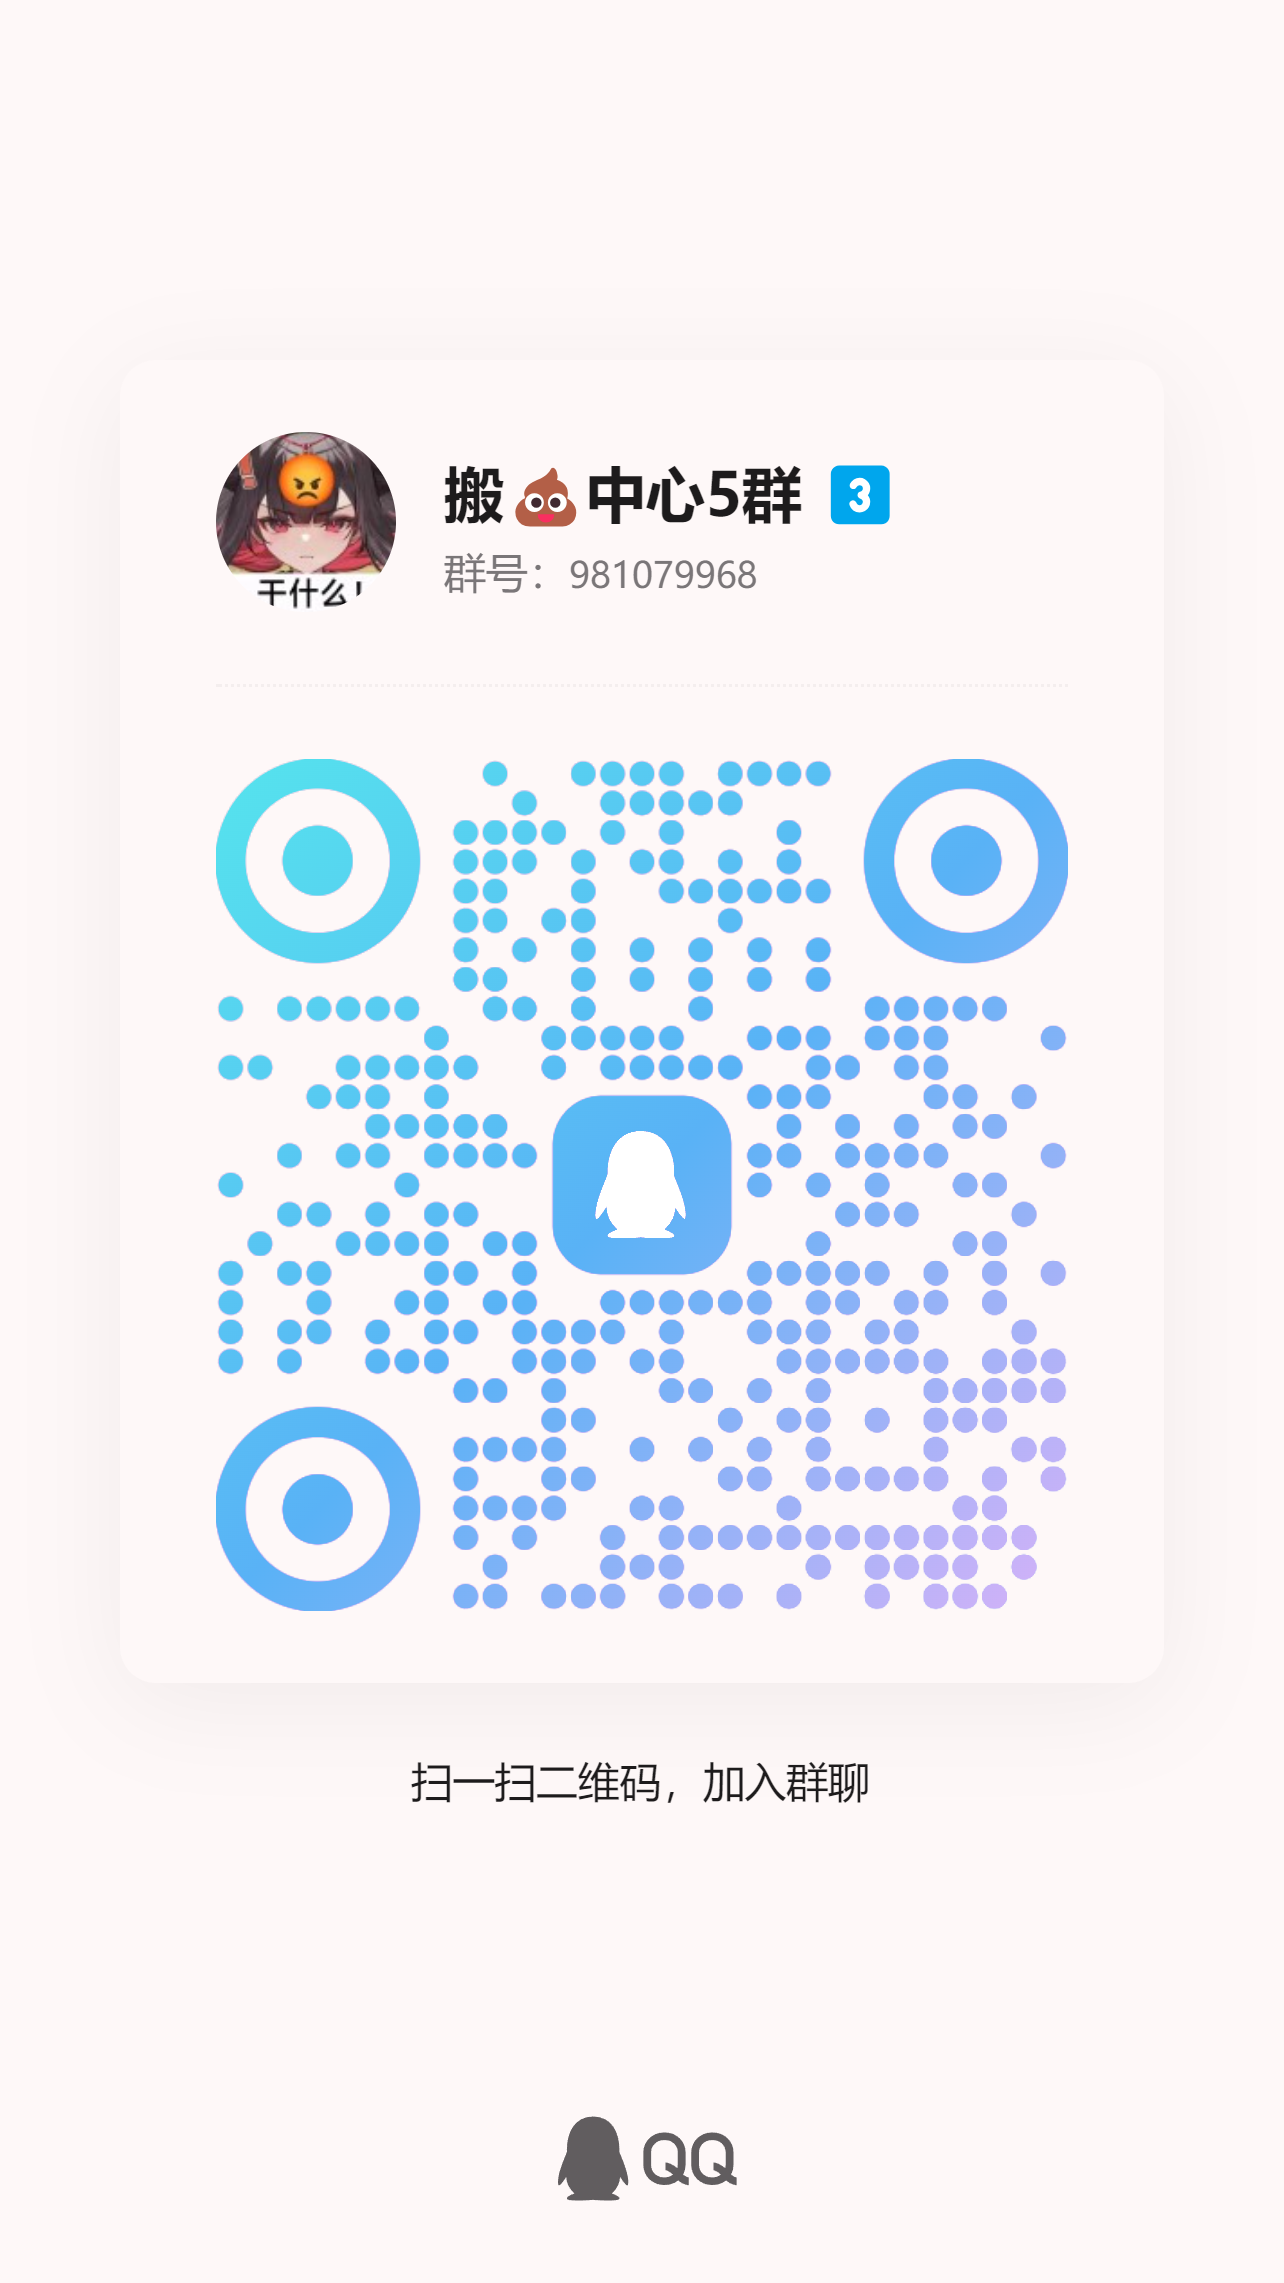
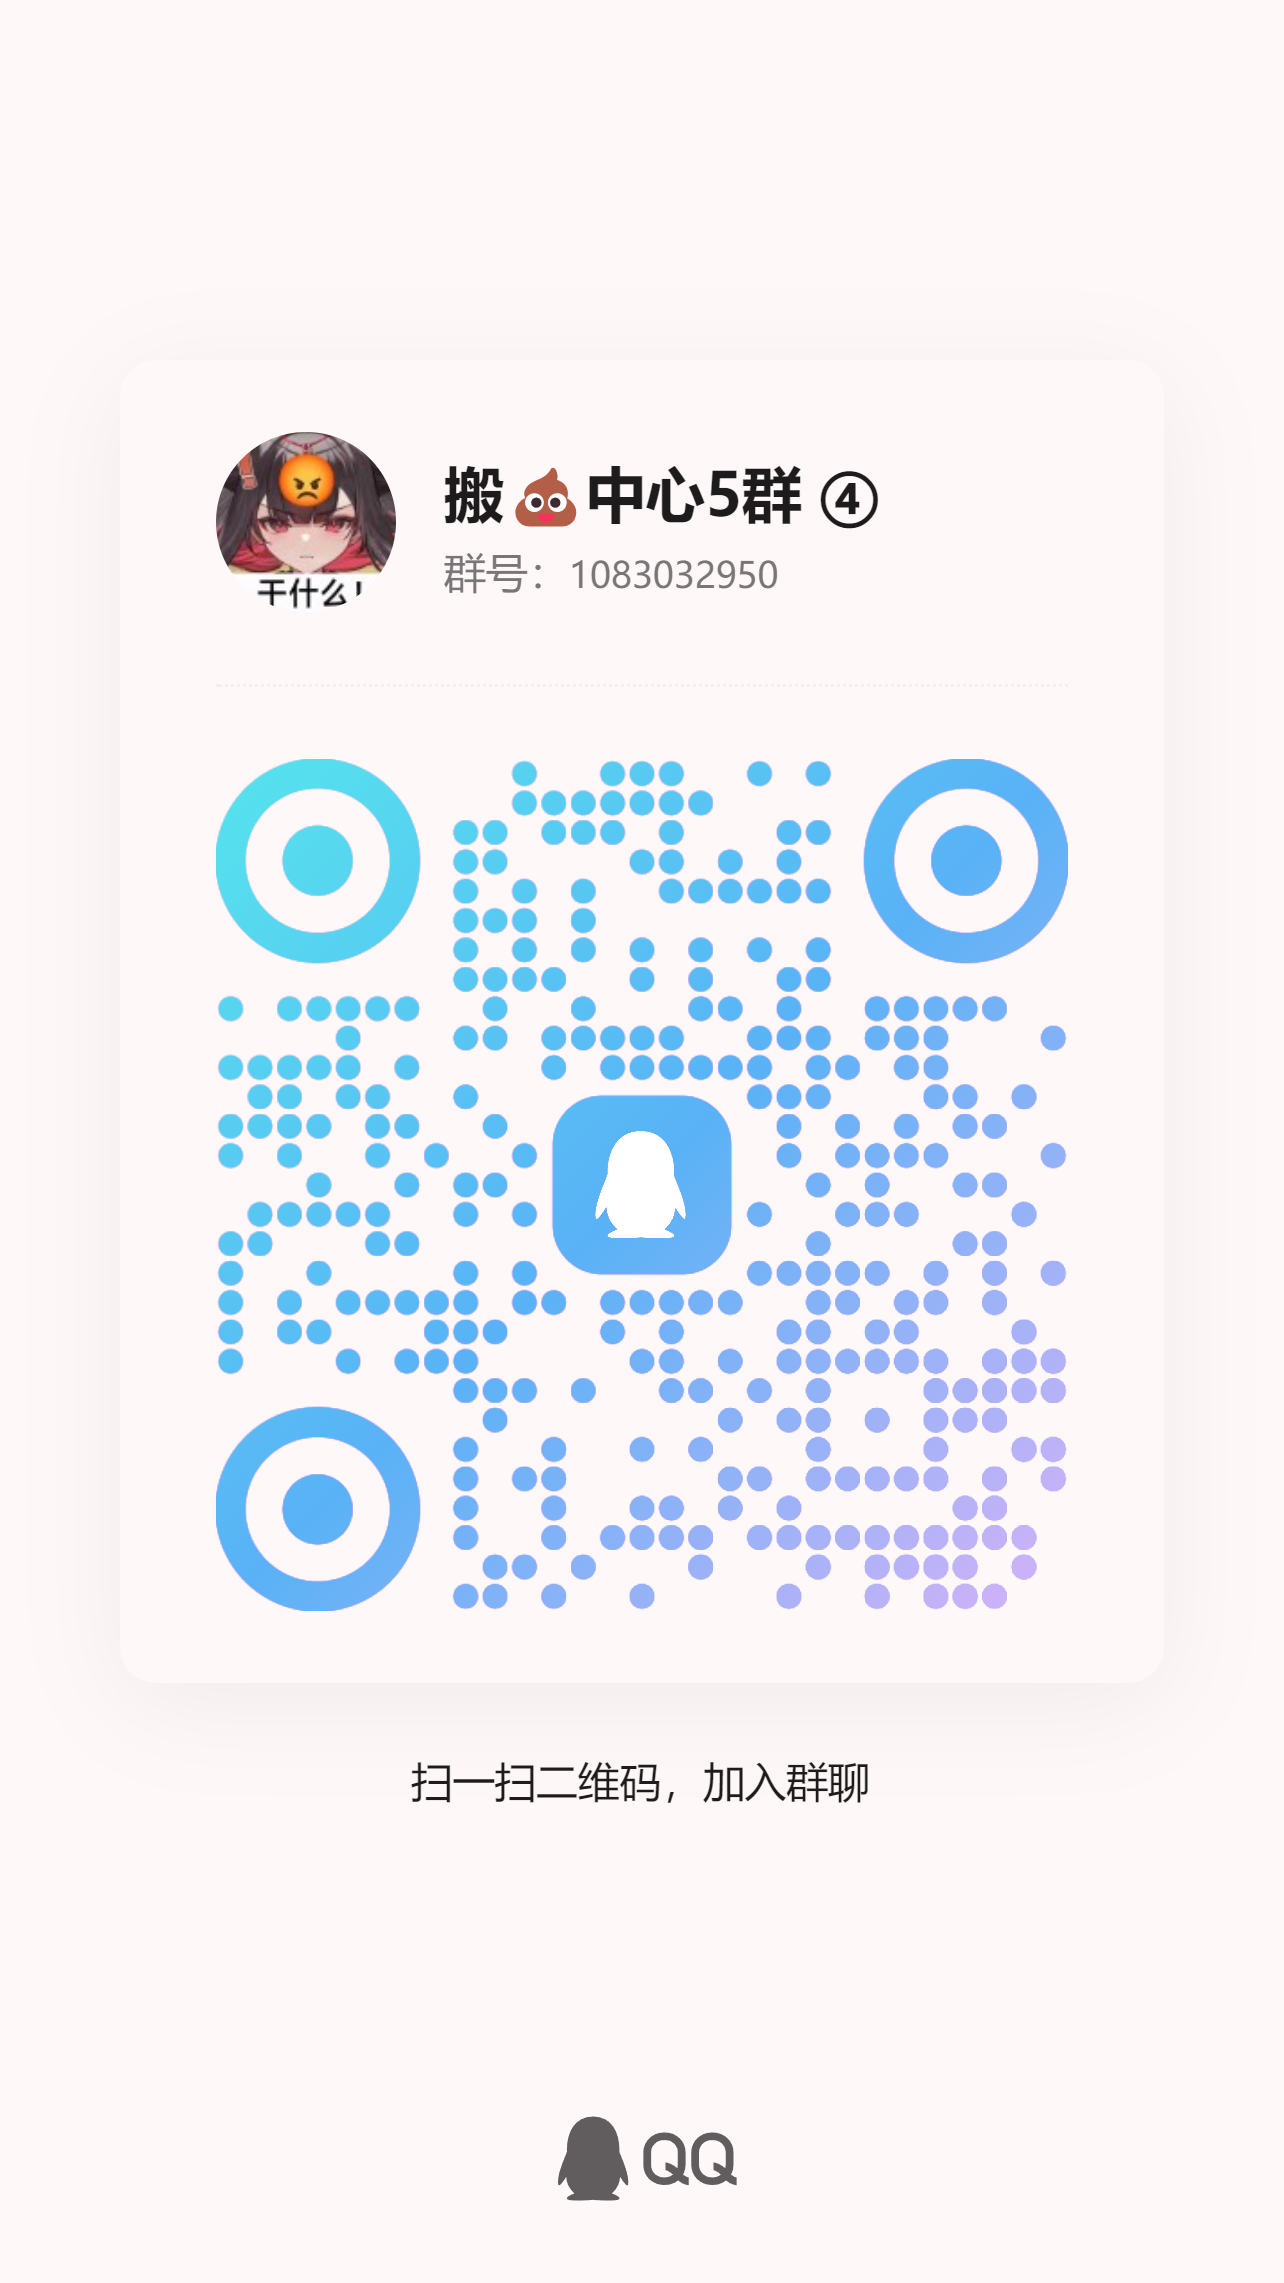
update

diff --git a/source/groups/index.md b/source/groups/index.md
@@ -3,7 +3,9 @@ title: 搬史中心入口
 date: 2025-09-16 10:57:46
 ---
 
-机器人项目地址: https://github.com/Soulter/AstrBot (正在维护!)
+# 最后更新日期: 2026-02-05
+
+机器人项目地址: https://github.com/AstrBotDevs/AstrBot (正在维护!)
 插件地址: https://github.com/anka-afk/astrbot_sowing_discord (以后还会再更新!(很可能!))
 
 # 入口群
@@ -11,10 +13,10 @@ date: 2025-09-16 10:57:46
 因为大群经常爆炸, 防止迷路, 可以加入入口群(也可以收藏本页)
 当然, 入口群也可能爆炸就是了
 
-一号:1042784071
-二号:1029720345
-三号:1057666434
-四号:1034659051
+一号:416866010
+二号:1079453057
+三号:1080375721
+四号:1083031108
 
 # 频道
 
@@ -47,8 +49,8 @@ date: 2025-09-16 10:57:46
 二维码:
 {% img /images/qrcode_group_4.jpg 250 "四群" %}
 
-5 群：981079968
-链接: https://qm.qq.com/q/nlKPpHSRnU
+5 群：1083032950
+链接: https://qm.qq.com/q/JuqpSoIuAM
 二维码:
 {% img /images/qrcode_group_5.jpg 250 "五群" %}
 
@@ -59,13 +61,13 @@ date: 2025-09-16 10:57:46
 
 # 聊天群(可以到这里聊天!)
 
-聊天群 1：1019664161
-链接: https://qm.qq.com/q/EpwIA4FAC6
+聊天群 1：1079547959
+链接: https://qm.qq.com/q/KNfTOymN4m
 二维码:
 {% img /images/qrcode_group_chat_1.jpg 250 "聊天群 1" %}
 
-聊天群 2 复活第二次版：1049074255
-链接: https://qm.qq.com/q/CznQIKly9i
+聊天群 2：695183253
+链接: https://qm.qq.com/q/w9aB4GQOvQ
 二维码:
 {% img /images/qrcode_group_chat_2.jpg 250 "聊天群 2" %}
 
@@ -73,6 +75,11 @@ date: 2025-09-16 10:57:46
 链接: https://qm.qq.com/q/zPdzdRcwXC
 二维码:
 {% img /images/qrcode_group_chat_3.jpg 250 "聊天群 3" %}
+
+聊天群 1+1: 853901829
+链接:https://qm.qq.com/q/MPsnFmci0s
+二维码:
+{% img /images/qrcode_group_chat_1_1.jpg 250 "聊天群 1+1" %}
 
 # 电报(无人管辖地带...)
 
